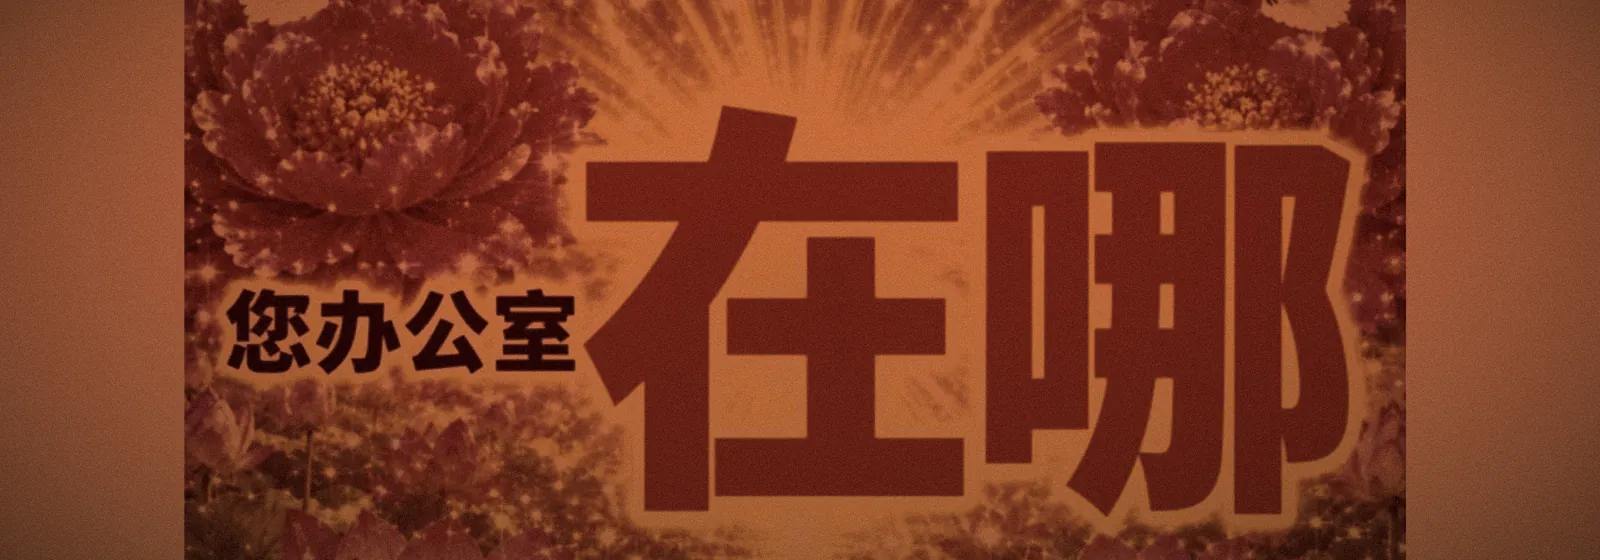
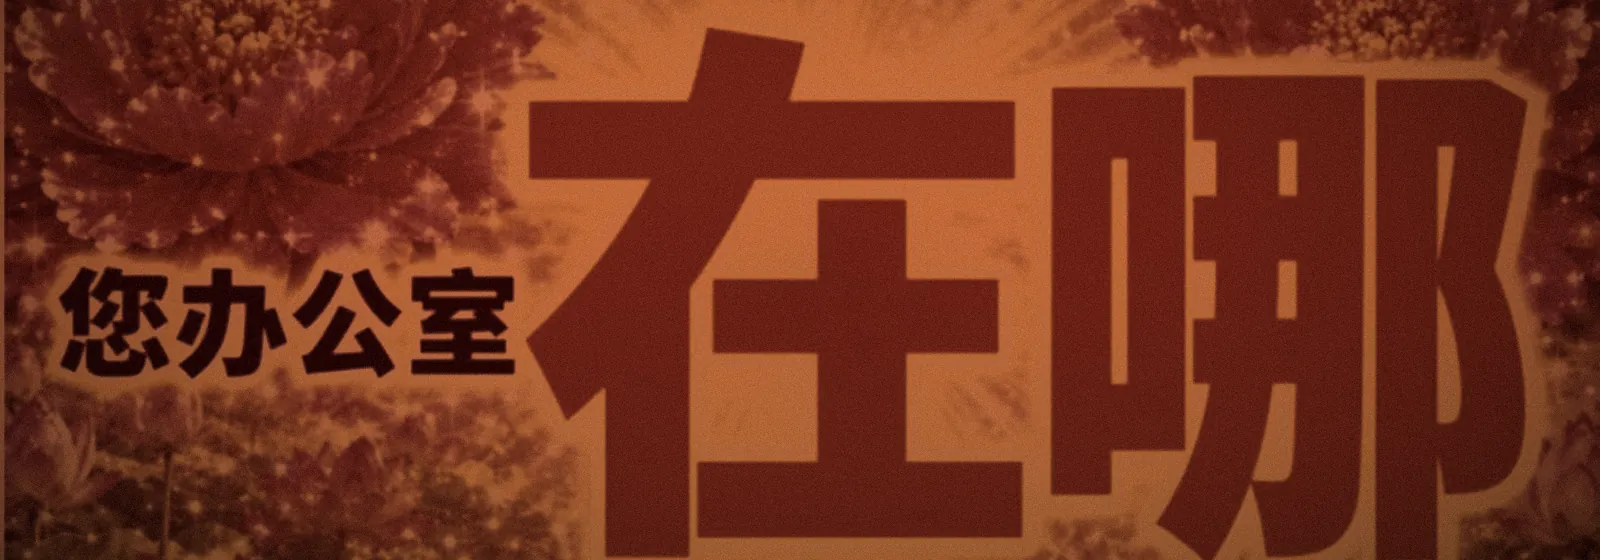
site: 2026-11-04 16:09

diff --git a/qrl/index.html b/qrl/index.html
@@ -496,12 +496,12 @@ footer b{color:var(--ink2);font-weight:600}
 <header class="hero"><div class="inner">
 <p class="kicker">Quantum Review Letters · Beta</p>
 <h1>QRL（测试版）</h1>
-<p class="meta"><div>共 <b>25</b> 篇</div><div>最近一次检查 2026-11-03</div><div>生成于 2026-11-04 15:45</div></p>
+<p class="meta"><div>共 <b>25</b> 篇</div><div>最近一次检查 2026-11-03</div><div>生成于 2026-11-04 16:08</div></p>
 </div></header>
 <div class="wrap">
 <nav class="tabs"><a href="../index.html">首页</a><a href="../daily/2026-11-04.html">日报</a><a href="../monthly/index.html">月报</a><a href="../topic/index.html">专题</a><a href="../qrl/index.html" class="active" aria-current="page">QRL（测试版）</a></nav>
 
-<div class="gongxi" style="--bg:url('../assets/gongxi/g7.webp');--bgpos:30% center">
+<div class="gongxi" style="--bg:url('../assets/gongxi/g2.webp');--bgpos:30% center">
 <div class="gbg"></div>
 <span class="lantern l">🏮</span><span class="lantern r">🏮</span>
 <p class="gk">Q R L · 新 刊 速 报</p>

diff --git a/topic/phot.html b/topic/phot.html
@@ -496,7 +496,7 @@ footer b{color:var(--ink2);font-weight:600}
 <header class="hero"><div class="inner">
 <p class="kicker">Special Topic · phot</p>
 <h1>专题 · 集成光子学</h1>
-<p class="meta"><div>共 <b>6</b> 篇 · 收录区间 2026-10-20 ~ 2026-11-03</div><div>检索窗口 2026-10-20 ~ 2026-11-03</div><div>生成于 2026-11-04 15:45</div></p>
+<p class="meta"><div>共 <b>6</b> 篇 · 收录区间 2026-10-20 ~ 2026-11-03</div><div>检索窗口 2026-10-20 ~ 2026-11-03</div><div>生成于 2026-11-04 16:08</div></p>
 </div></header>
 <div class="wrap">
 <nav class="tabs"><a href="../index.html">首页</a><a href="../daily/2026-11-04.html">日报</a><a href="../monthly/index.html">月报</a><a href="../topic/index.html" class="active" aria-current="page">专题</a><a href="../qrl/index.html">QRL（测试版）</a></nav>

diff --git a/topic/crypto.html b/topic/crypto.html
@@ -496,7 +496,7 @@ footer b{color:var(--ink2);font-weight:600}
 <header class="hero"><div class="inner">
 <p class="kicker">Special Topic · crypto</p>
 <h1>专题 · 量子密码</h1>
-<p class="meta"><div>共 <b>1</b> 篇 · 收录区间 2026-10-20 ~ 2026-11-03</div><div>检索窗口 2026-10-20 ~ 2026-11-03</div><div>生成于 2026-11-04 15:45</div></p>
+<p class="meta"><div>共 <b>1</b> 篇 · 收录区间 2026-10-20 ~ 2026-11-03</div><div>检索窗口 2026-10-20 ~ 2026-11-03</div><div>生成于 2026-11-04 16:08</div></p>
 </div></header>
 <div class="wrap">
 <nav class="tabs"><a href="../index.html">首页</a><a href="../daily/2026-11-04.html">日报</a><a href="../monthly/index.html">月报</a><a href="../topic/index.html" class="active" aria-current="page">专题</a><a href="../qrl/index.html">QRL（测试版）</a></nav>

diff --git a/topic/ent.html b/topic/ent.html
@@ -496,7 +496,7 @@ footer b{color:var(--ink2);font-weight:600}
 <header class="hero"><div class="inner">
 <p class="kicker">Special Topic · ent</p>
 <h1>专题 · 量子纠缠</h1>
-<p class="meta"><div>共 <b>5</b> 篇 · 收录区间 2026-10-20 ~ 2026-11-03</div><div>检索窗口 2026-10-20 ~ 2026-11-03</div><div>生成于 2026-11-04 15:45</div></p>
+<p class="meta"><div>共 <b>5</b> 篇 · 收录区间 2026-10-20 ~ 2026-11-03</div><div>检索窗口 2026-10-20 ~ 2026-11-03</div><div>生成于 2026-11-04 16:08</div></p>
 </div></header>
 <div class="wrap">
 <nav class="tabs"><a href="../index.html">首页</a><a href="../daily/2026-11-04.html">日报</a><a href="../monthly/index.html">月报</a><a href="../topic/index.html" class="active" aria-current="page">专题</a><a href="../qrl/index.html">QRL（测试版）</a></nav>

diff --git a/daily/2026-11-01.html b/daily/2026-11-01.html
@@ -496,7 +496,7 @@ footer b{color:var(--ink2);font-weight:600}
 <header class="hero"><div class="inner">
 <p class="kicker">Quantum Information Digest · 2026-11-01</p>
 <h1>量子信息速递 · 11 月 1 日</h1>
-<p class="meta"><div>周日 · 本期共 <b>1</b> 篇</div><div>论文发表于 2026-11-01</div><div>生成于 2026-11-04 15:45</div></p>
+<p class="meta"><div>周日 · 本期共 <b>1</b> 篇</div><div>论文发表于 2026-11-01</div><div>生成于 2026-11-04 16:08</div></p>
 </div></header>
 <div class="wrap">
 <nav class="tabs"><a href="../index.html">首页</a><a href="../daily/2026-11-04.html" class="active" aria-current="page">日报</a><a href="../monthly/index.html">月报</a><a href="../topic/index.html">专题</a><a href="../qrl/index.html">QRL（测试版）</a></nav>

diff --git a/daily/2026-11-02.html b/daily/2026-11-02.html
@@ -496,7 +496,7 @@ footer b{color:var(--ink2);font-weight:600}
 <header class="hero"><div class="inner">
 <p class="kicker">Quantum Information Digest · 2026-11-02</p>
 <h1>量子信息速递 · 11 月 2 日</h1>
-<p class="meta"><div>周一 · 本期共 <b>1</b> 篇</div><div>论文发表于 2026-11-02</div><div>生成于 2026-11-04 15:45</div></p>
+<p class="meta"><div>周一 · 本期共 <b>1</b> 篇</div><div>论文发表于 2026-11-02</div><div>生成于 2026-11-04 16:08</div></p>
 </div></header>
 <div class="wrap">
 <nav class="tabs"><a href="../index.html">首页</a><a href="../daily/2026-11-04.html" class="active" aria-current="page">日报</a><a href="../monthly/index.html">月报</a><a href="../topic/index.html">专题</a><a href="../qrl/index.html">QRL（测试版）</a></nav>

diff --git a/daily/2026-11-04.html b/daily/2026-11-04.html
@@ -496,7 +496,7 @@ footer b{color:var(--ink2);font-weight:600}
 <header class="hero"><div class="inner">
 <p class="kicker">Quantum Information Digest · 2026-11-04</p>
 <h1>量子信息速递 · 11 月 4 日</h1>
-<p class="meta"><div>周三 · 本期共 <b>1</b> 篇</div><div>论文发表于 2026-11-03</div><div>生成于 2026-11-04 15:45</div></p>
+<p class="meta"><div>周三 · 本期共 <b>1</b> 篇</div><div>论文发表于 2026-11-03</div><div>生成于 2026-11-04 16:08</div></p>
 </div></header>
 <div class="wrap">
 <nav class="tabs"><a href="../index.html">首页</a><a href="../daily/2026-11-04.html" class="active" aria-current="page">日报</a><a href="../monthly/index.html">月报</a><a href="../topic/index.html">专题</a><a href="../qrl/index.html">QRL（测试版）</a></nav>

diff --git a/monthly/2026-10.html b/monthly/2026-10.html
@@ -496,7 +496,7 @@ footer b{color:var(--ink2);font-weight:600}
 <header class="hero"><div class="inner">
 <p class="kicker">Monthly Archive · 2026-10</p>
 <h1>量子信息速递 · 2026 年 10 月</h1>
-<p class="meta"><div>共 <b>18</b> 篇</div><div>检索窗口 2026-10-20 ~ 2026-11-03</div><div>生成于 2026-11-04 15:45</div></p>
+<p class="meta"><div>共 <b>18</b> 篇</div><div>检索窗口 2026-10-20 ~ 2026-11-03</div><div>生成于 2026-11-04 16:08</div></p>
 </div></header>
 <div class="wrap">
 <nav class="tabs"><a href="../index.html">首页</a><a href="../daily/2026-11-04.html">日报</a><a href="../monthly/index.html" class="active" aria-current="page">月报</a><a href="../topic/index.html">专题</a><a href="../qrl/index.html">QRL（测试版）</a></nav>

diff --git a/monthly/2026-11.html b/monthly/2026-11.html
@@ -496,7 +496,7 @@ footer b{color:var(--ink2);font-weight:600}
 <header class="hero"><div class="inner">
 <p class="kicker">Monthly Archive · 2026-11</p>
 <h1>量子信息速递 · 2026 年 11 月</h1>
-<p class="meta"><div>共 <b>3</b> 篇</div><div>检索窗口 2026-10-20 ~ 2026-11-03</div><div>生成于 2026-11-04 15:45</div></p>
+<p class="meta"><div>共 <b>3</b> 篇</div><div>检索窗口 2026-10-20 ~ 2026-11-03</div><div>生成于 2026-11-04 16:08</div></p>
 </div></header>
 <div class="wrap">
 <nav class="tabs"><a href="../index.html">首页</a><a href="../daily/2026-11-04.html">日报</a><a href="../monthly/index.html" class="active" aria-current="page">月报</a><a href="../topic/index.html">专题</a><a href="../qrl/index.html">QRL（测试版）</a></nav>

diff --git a/topic/index.html b/topic/index.html
@@ -496,7 +496,7 @@ footer b{color:var(--ink2);font-weight:600}
 <header class="hero"><div class="inner">
 <p class="kicker">Special Topics · Cryptography, Entanglement, Photonics &amp; Fiber Sensing</p>
 <h1>专题</h1>
-<p class="meta"><div>共 <b>3</b> 个方向 · <b>12</b> 篇</div><div>本页生成于 2026-11-04 15:45</div></p>
+<p class="meta"><div>共 <b>3</b> 个方向 · <b>12</b> 篇</div><div>本页生成于 2026-11-04 16:08</div></p>
 </div></header>
 <div class="wrap">
 <nav class="tabs"><a href="../index.html">首页</a><a href="../daily/2026-11-04.html">日报</a><a href="../monthly/index.html">月报</a><a href="../topic/index.html" class="active" aria-current="page">专题</a><a href="../qrl/index.html">QRL（测试版）</a></nav>

diff --git a/index.html b/index.html
@@ -496,7 +496,7 @@ footer b{color:var(--ink2);font-weight:600}
 <header class="hero"><div class="inner">
 <p class="kicker">Quantum Information Digest · Archive</p>
 <h1>量子信息速递</h1>
-<p class="meta"><div>累计 <b>21</b> 篇</div><div>每日 08:00 自动更新</div><div>本页生成于 2026-11-04 15:45</div></p>
+<p class="meta"><div>累计 <b>21</b> 篇</div><div>每日 08:00 自动更新</div><div>本页生成于 2026-11-04 16:08</div></p>
 </div></header>
 <div class="wrap">
 <nav class="tabs"><a href="index.html" class="active" aria-current="page">首页</a><a href="daily/2026-11-04.html">日报</a><a href="monthly/index.html">月报</a><a href="topic/index.html">专题</a><a href="qrl/index.html">QRL（测试版）</a></nav>

diff --git a/daily/2026-11.html b/daily/2026-11.html
@@ -496,7 +496,7 @@ footer b{color:var(--ink2);font-weight:600}
 <header class="hero"><div class="inner">
 <p class="kicker">Monthly Index · 2026-11</p>
 <h1>量子信息速递 · 2026 年 11 月</h1>
-<p class="meta"><div>本月 <b>3</b> 期 · <b>3</b> 篇</div><div>本页生成于 2026-11-04 15:45</div></p>
+<p class="meta"><div>本月 <b>3</b> 期 · <b>3</b> 篇</div><div>本页生成于 2026-11-04 16:08</div></p>
 </div></header>
 <div class="wrap">
 <nav class="tabs"><a href="../index.html">首页</a><a href="../daily/2026-11-04.html" class="active" aria-current="page">日报</a><a href="../monthly/index.html">月报</a><a href="../topic/index.html">专题</a><a href="../qrl/index.html">QRL（测试版）</a></nav>
